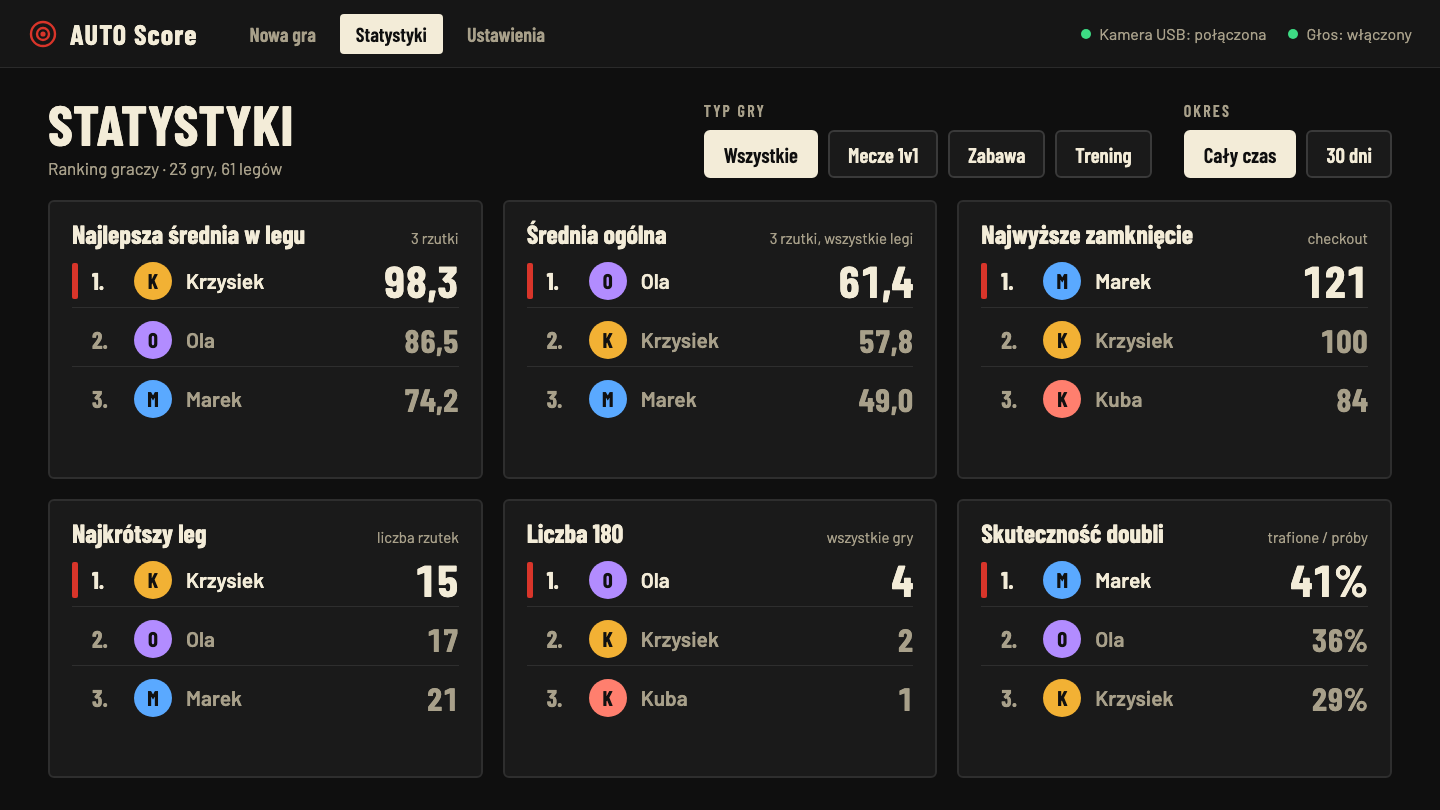
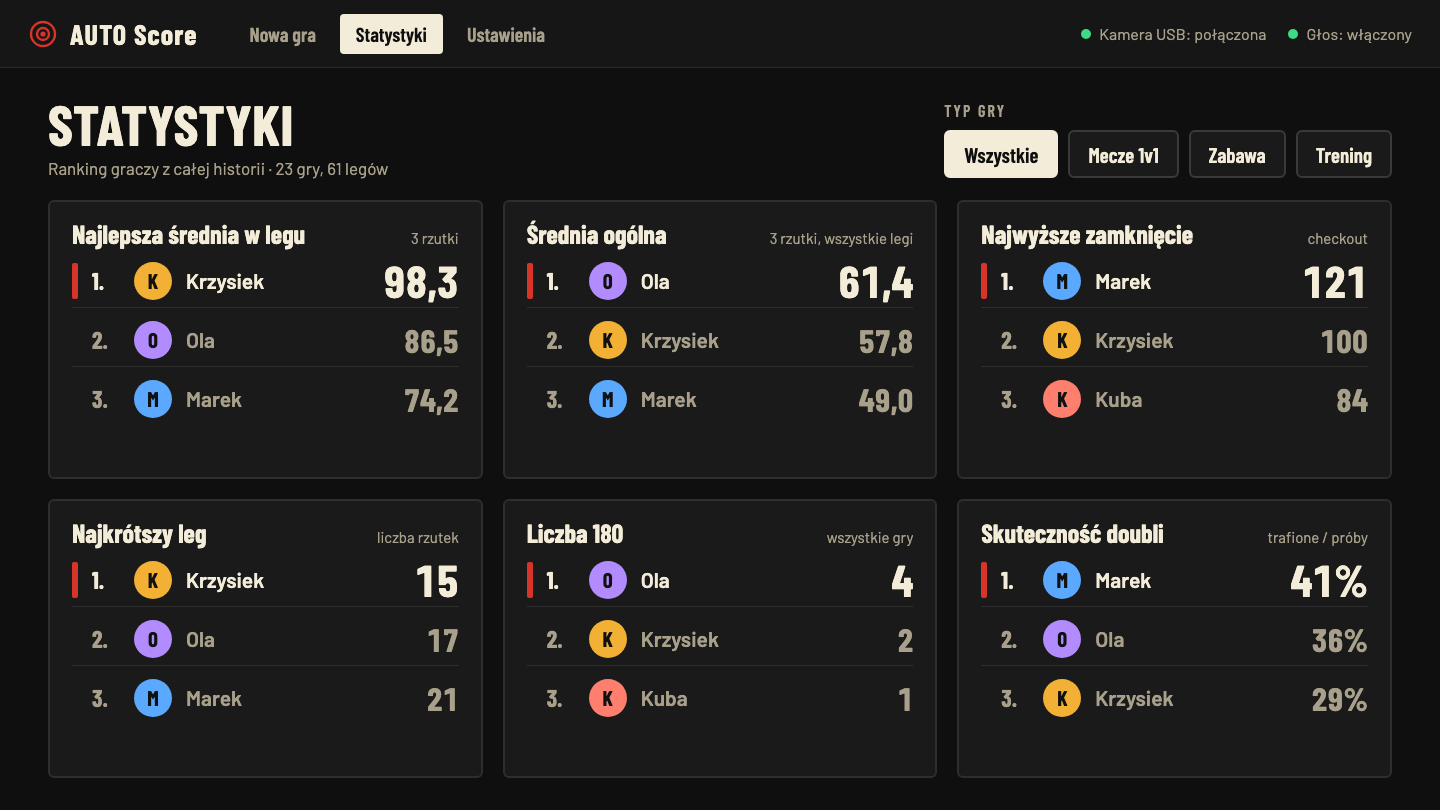
design: statistics always cover all time
Drop the period filter from the statistics screen; rankings always use
the whole history, filtered only by game type.

Changed region(s): [[0.4688, 0.1235, 0.9688, 0.2469], [0.125, 0.1852, 0.2812, 0.216]]

diff --git a/auto-score-dart-pomysly.md b/auto-score-dart-pomysly.md
@@ -659,7 +659,7 @@ Każdy etap ma kończyć się działającą rzeczą, którą da się użyć, bo 
 - **Urządzenie:** na start monitor (Mac), później tablet i TV jako drugi ekran. Układ responsywny.
 - **Wyniki i zakończenia na ekranie:** podpowiedź zamknięcia (np. D12) i liczba rzutek do wygrania lega widoczne na ekranie gry, a na koniec lega i meczu ekran podsumowania (wynik, średnie, najwyższe zakończenie).
 - **Makiety:** [AUTO Score: ekran gry (2 motywy)](https://claude.ai/artifact/X3fQ7qb26tmktL3amc2pML). Obowiązuje motyw A (czerwony): ekrany „A: 2 graczy” i „A: 4 graczy”. Zielony wariant B („Ciemny nowoczesny”) jest odrzucony.
-- **Zrzuty ekranów A** w repo (1440×810): `design/mockups/theme-a-2-players.png`, `design/mockups/theme-a-4-players.png`, `design/mockups/theme-a-new-game.png` (ekran startowy: typ gry, gracze, punkty, liczba legów, podsumowanie, przewijana lista gier do dokończenia z przyciskiem Dokończ), `design/mockups/theme-a-new-game-10-players.png` (ten sam ekran przy 10 graczach: chipy zawijają się w 2 rzędy, bez wyszukiwarki, kolejność od ostatnio grających; miejsca starczy do ok. 20 graczy, potem lista musi się przewijać albo pokazywać tylko ostatnio grających), `design/mockups/theme-a-stats.png` (statystyki: filtry typu gry i okresu, 6 rankingów top 3, m.in. najlepsza średnia w legu). Liczby na makietach są przykładowe. Na makietach brakuje klawiatury ręcznego wpisu (decyzja zapadła później), więc P5 musi ją zaprojektować w tym samym stylu.
+- **Zrzuty ekranów A** w repo (1440×810): `design/mockups/theme-a-2-players.png`, `design/mockups/theme-a-4-players.png`, `design/mockups/theme-a-new-game.png` (ekran startowy: typ gry, gracze, punkty, liczba legów, podsumowanie, przewijana lista gier do dokończenia z przyciskiem Dokończ), `design/mockups/theme-a-new-game-10-players.png` (ten sam ekran przy 10 graczach: chipy zawijają się w 2 rzędy, bez wyszukiwarki, kolejność od ostatnio grających; miejsca starczy do ok. 20 graczy, potem lista musi się przewijać albo pokazywać tylko ostatnio grających), `design/mockups/theme-a-stats.png` (statystyki: filtr typu gry, zawsze z całej historii, bez filtra okresu; 6 rankingów top 3, m.in. najlepsza średnia w legu). Liczby na makietach są przykładowe. Na makietach brakuje klawiatury ręcznego wpisu (decyzja zapadła później), więc P5 musi ją zaprojektować w tym samym stylu.
 - **Tokeny motywu A** w repo: `design/theme.css` (kolory, fonty, rozmiary z makiety 1440×810, promienie). Uwaga do P5: kremowy tekst na czerwonym akcencie ma kontrast 4,4:1, więc nadaje się tylko do dużego tekstu; mała odznaka „Rzuca” (13 px) z makiety wymaga większego, pogrubionego tekstu albo innego rozwiązania.
 
 # Typy gier: mecz 1v1, zabawa i trening
